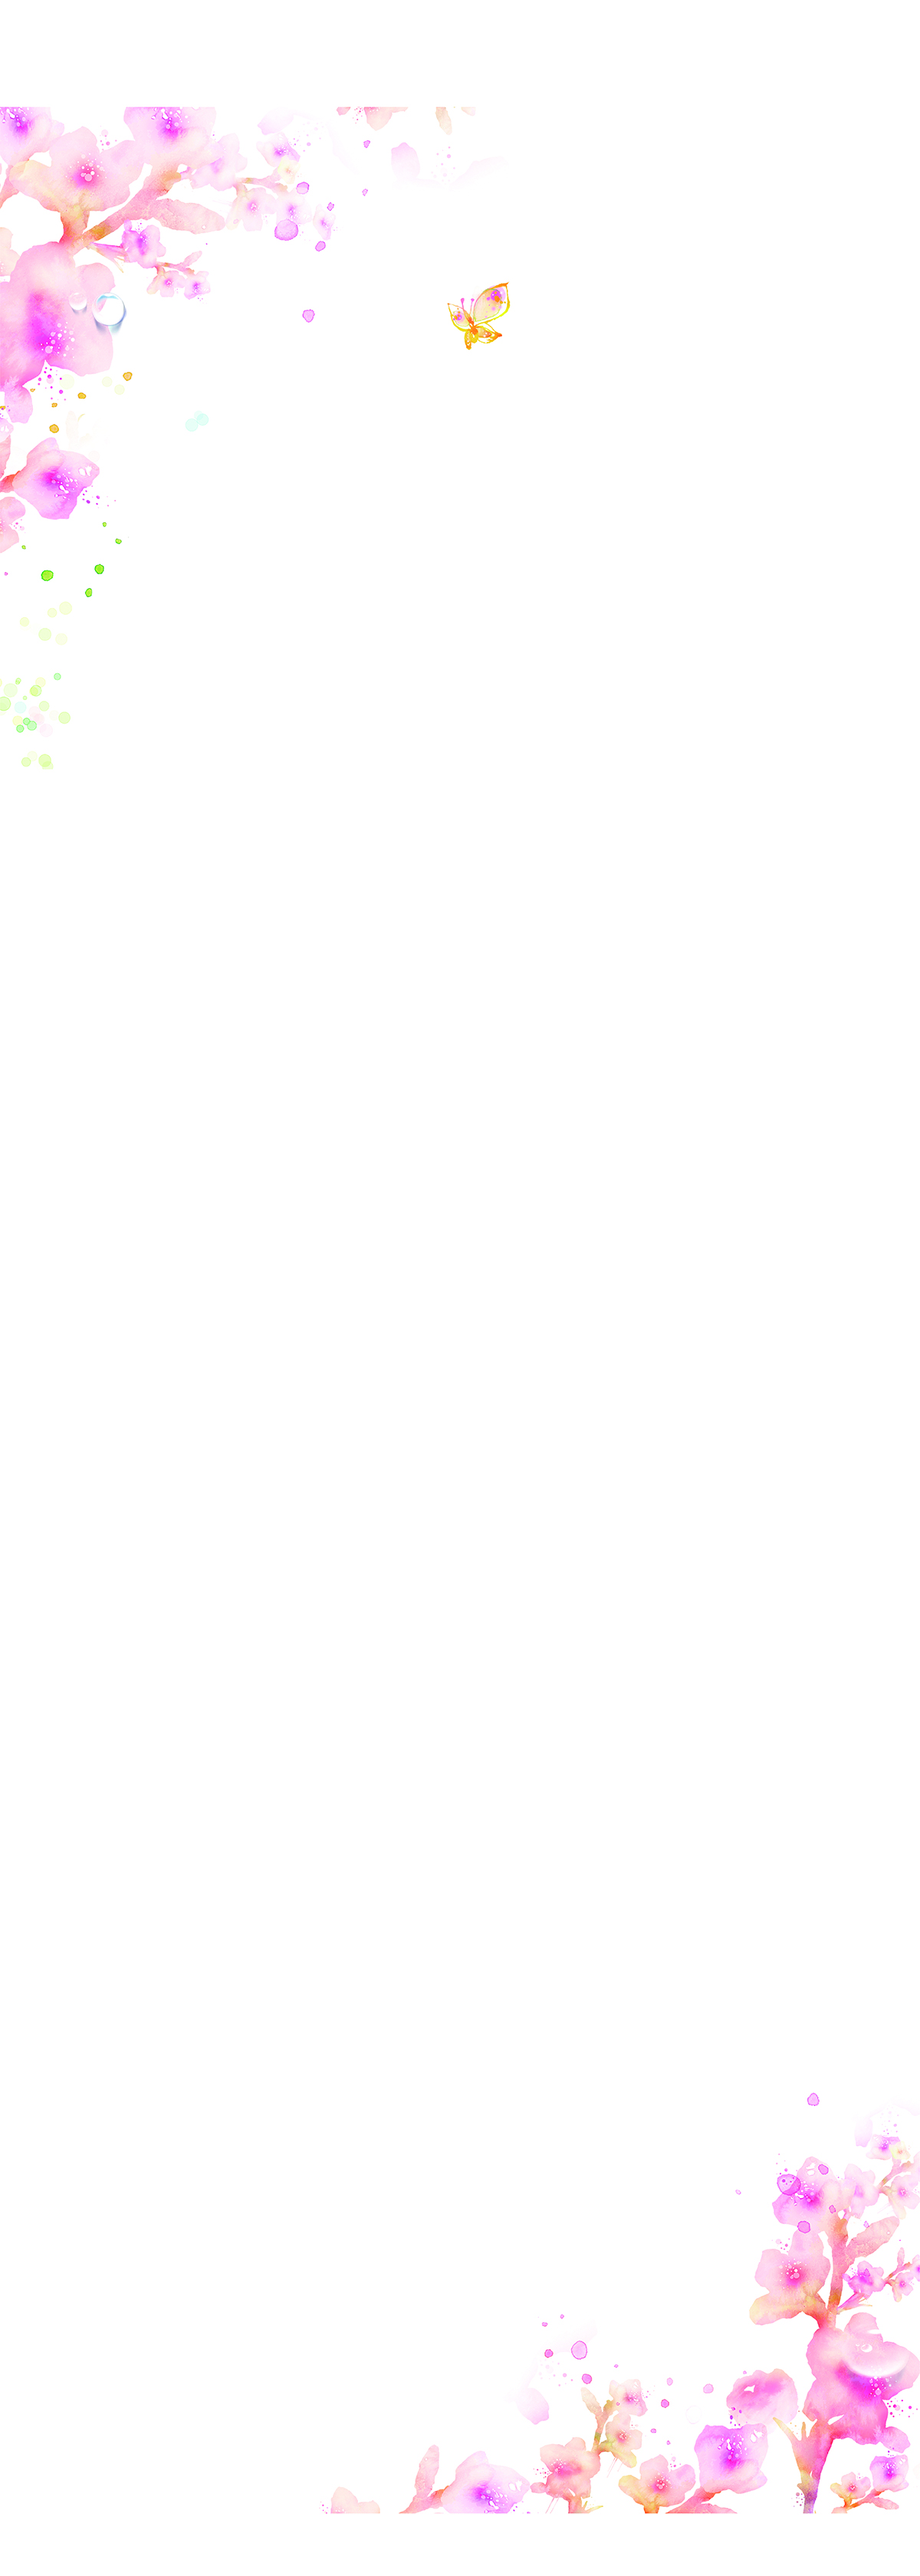
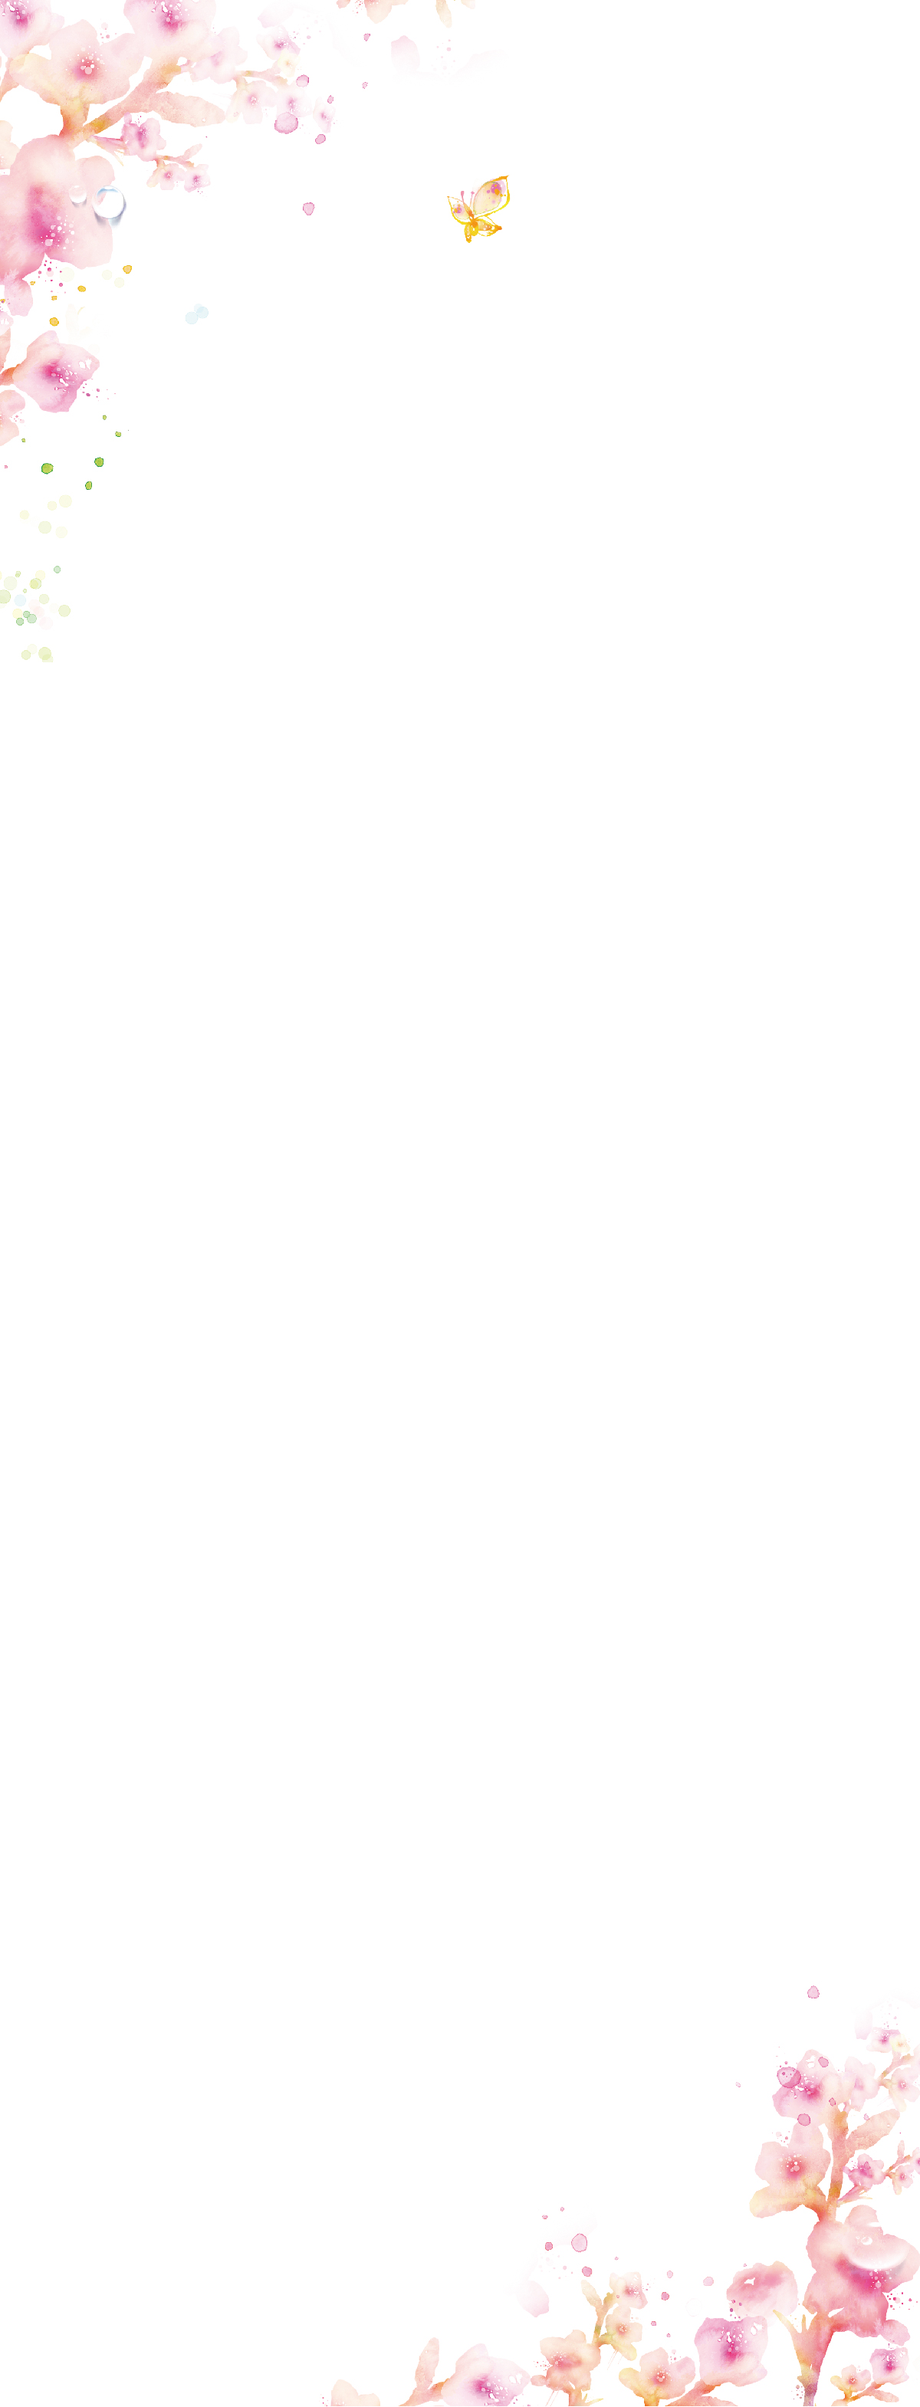
v3.2 update region's background

diff --git a/css/style.css b/css/style.css
@@ -756,7 +756,6 @@ main img {
 #lod-bg {
 	background-image: url(../img/lodging/back-01.jpg);
 	background-repeat: no-repeat;
-	background-position-y: -300px;
 	position: relative;
     z-index: -1;
 }
@@ -909,7 +908,13 @@ main img {
 }
 /*** lodging ***/
 
-/*** north ***/
+/*** region ***/
+#region-bg {
+	background-image: url(../img/region-back-01.jpg);
+	background-repeat: no-repeat;
+	position: relative;
+    z-index: -1;
+}
 #bigphoto{
 	width:1200px;
 	height:550px;
@@ -919,15 +924,19 @@ main img {
 
 #content01{
 	width:1200px;
-	height:100px;
+	height:146px;
 	margin-right: auto;
 	margin-left: auto;
 	}
 	
-	.content{
-	margin-top: 50px;
+.content{
 	margin-left: 40px;
-	}
+}
+
+.content h1 {
+	margin: 0px;
+	padding-top: 50px;
+}
 
 #content02{ 
     width:1200px;

diff --git a/south.html b/south.html
@@ -32,12 +32,12 @@
 <img src="img/south/01.jpg" width="1200" height="550" alt=""/>
 </div>
 
-
-<div id="content01">
-<div class="content">
-<h1>南部 台南 白河蓮花季</h1>
+<div id="region-bg">
+  <div id="content01">
+    <div class="content">
+      <h1>南部 台南 白河蓮花季</h1>
 	</div>
-</div>
+  </div>
 
 <div id="content02">
 
@@ -132,6 +132,7 @@
   </div>
  
  <div id="p04">
+ </div>
  </div>
   
   <div class="clear"></div>

diff --git a/lodging.html b/lodging.html
@@ -28,9 +28,9 @@
     </nav>
   </header>
   
-  <div id="lod-bg" class="animated fadeInUp">
+  <div id="lod-bg" class="animated fadeIn delay-3" style="animation-duration: 3s;">
     <div id="d0lodging"> 
-      <p style="font-size: 36px; padding-top:50px;">住宿推薦</p>
+      <p style="font-size: 36px; padding-top:50px; font-weight:500;">住宿推薦</p>
     </div>
     <div id="d1lodging">
       <div id="d1l">

diff --git a/west.html b/west.html
@@ -32,7 +32,7 @@
 <img src="img/west/01.jpg" width="1200" height="550" alt=""/>
 </div>
 
-
+<div id="region-bg">
 <div id="content01">
 <div class="content">
 <h1>中部 台中 武陵農場櫻花季</h1>
@@ -125,7 +125,7 @@
  
  <div id="p04">
  </div>
-  
+  </div>
   <div class="clear"></div>
   <footer>
     <p>Taiwan Flower Viewing Spots</p>

diff --git a/east.html b/east.html
@@ -32,7 +32,7 @@
 <img src="img/east/01.jpg" width="1200" height="550" alt=""/>
 </div>
 
-
+<div id="region-bg">
 <div id="content01">
 <div class="content">
 <h1>東部 台東 太麻里金針山</h1>
@@ -128,7 +128,7 @@
  
  <div id="p04">
  </div>
-  
+  </div>
   <div class="clear"></div>
   <footer>
     <p>Taiwan Flower Viewing Spots</p>

diff --git a/north.html b/north.html
@@ -32,7 +32,7 @@
 <img src="img/north/01.jpg" width="1200" height="550" alt=""/>
 </div>
 
-
+<div id="region-bg">
 <div id="content01">
 <div class="content">
 <h1>北部 苗栗 四月雪小徑</h1>
@@ -129,7 +129,7 @@
  
   <div id="p04">
   </div>
-  
+  </div>
   <div class="clear"></div>
   <footer>
     <p>Taiwan Flower Viewing Spots</p>
